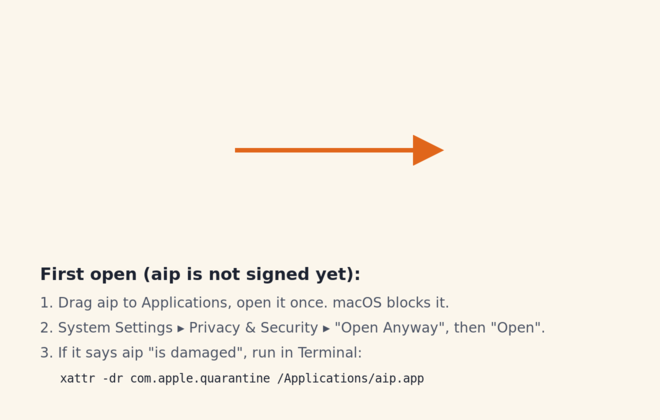
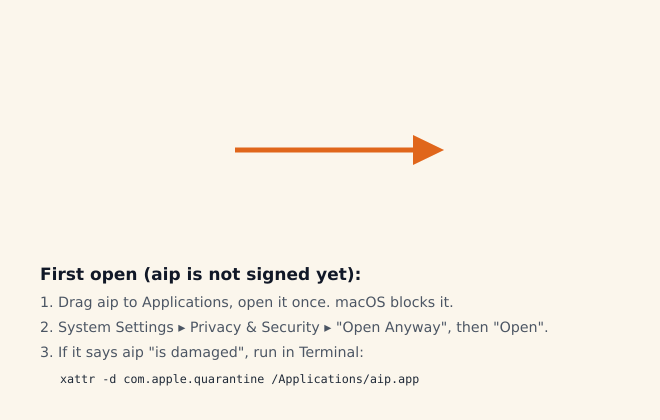
macOS: clear quarantine with xattr -d; dmg background from an SVG source

diff --git a/tasks/spec.md b/tasks/spec.md
@@ -73,7 +73,7 @@ OSS). Reasons for deferring:
     Gatekeeper. The route is System Settings → Privacy & Security →
     "Open Anyway", then confirm.
   - Some apps are reported as "damaged" instead, which only
-    `xattr -dr com.apple.quarantine` clears.
+    `xattr -d com.apple.quarantine` clears.
   - Since 2026-09-01, Homebrew disables official casks that fail Gatekeeper
     and has removed `--no-quarantine`, so Homebrew no longer helps unsigned
     apps.
@@ -382,7 +382,7 @@ background:
 2. Open System Settings → Privacy & Security, click "Open Anyway" next to the
    aip message, and confirm with "Open".
 3. If macOS says the app "is damaged and can't be opened", run
-   `xattr -dr com.apple.quarantine /Applications/aip.app` in Terminal, then
+   `xattr -d com.apple.quarantine /Applications/aip.app` in Terminal, then
    open it again.
 
 - **Record how aip was installed.** Every channel writes an install-method

diff --git a/.github/release-template.md b/.github/release-template.md
@@ -10,7 +10,7 @@ aip is not signed yet, so macOS blocks it until you allow it once:
 3. If macOS says aip "is damaged and can't be opened", run this in Terminal,
    then open it again:
    ```sh
-   xattr -dr com.apple.quarantine /Applications/aip.app
+   xattr -d com.apple.quarantine /Applications/aip.app
    ```
 
 **Linux:** the AppImage (any distribution), or the `.deb` / `.rpm` package.

diff --git a/docs/install-macos.md b/docs/install-macos.md
@@ -21,7 +21,7 @@ aip's own updater keep working.
    again:
 
    ```sh
-   xattr -dr com.apple.quarantine /Applications/aip.app
+   xattr -d com.apple.quarantine /Applications/aip.app
    ```
 
 The same steps are on the `.dmg` window's background and in each release's
